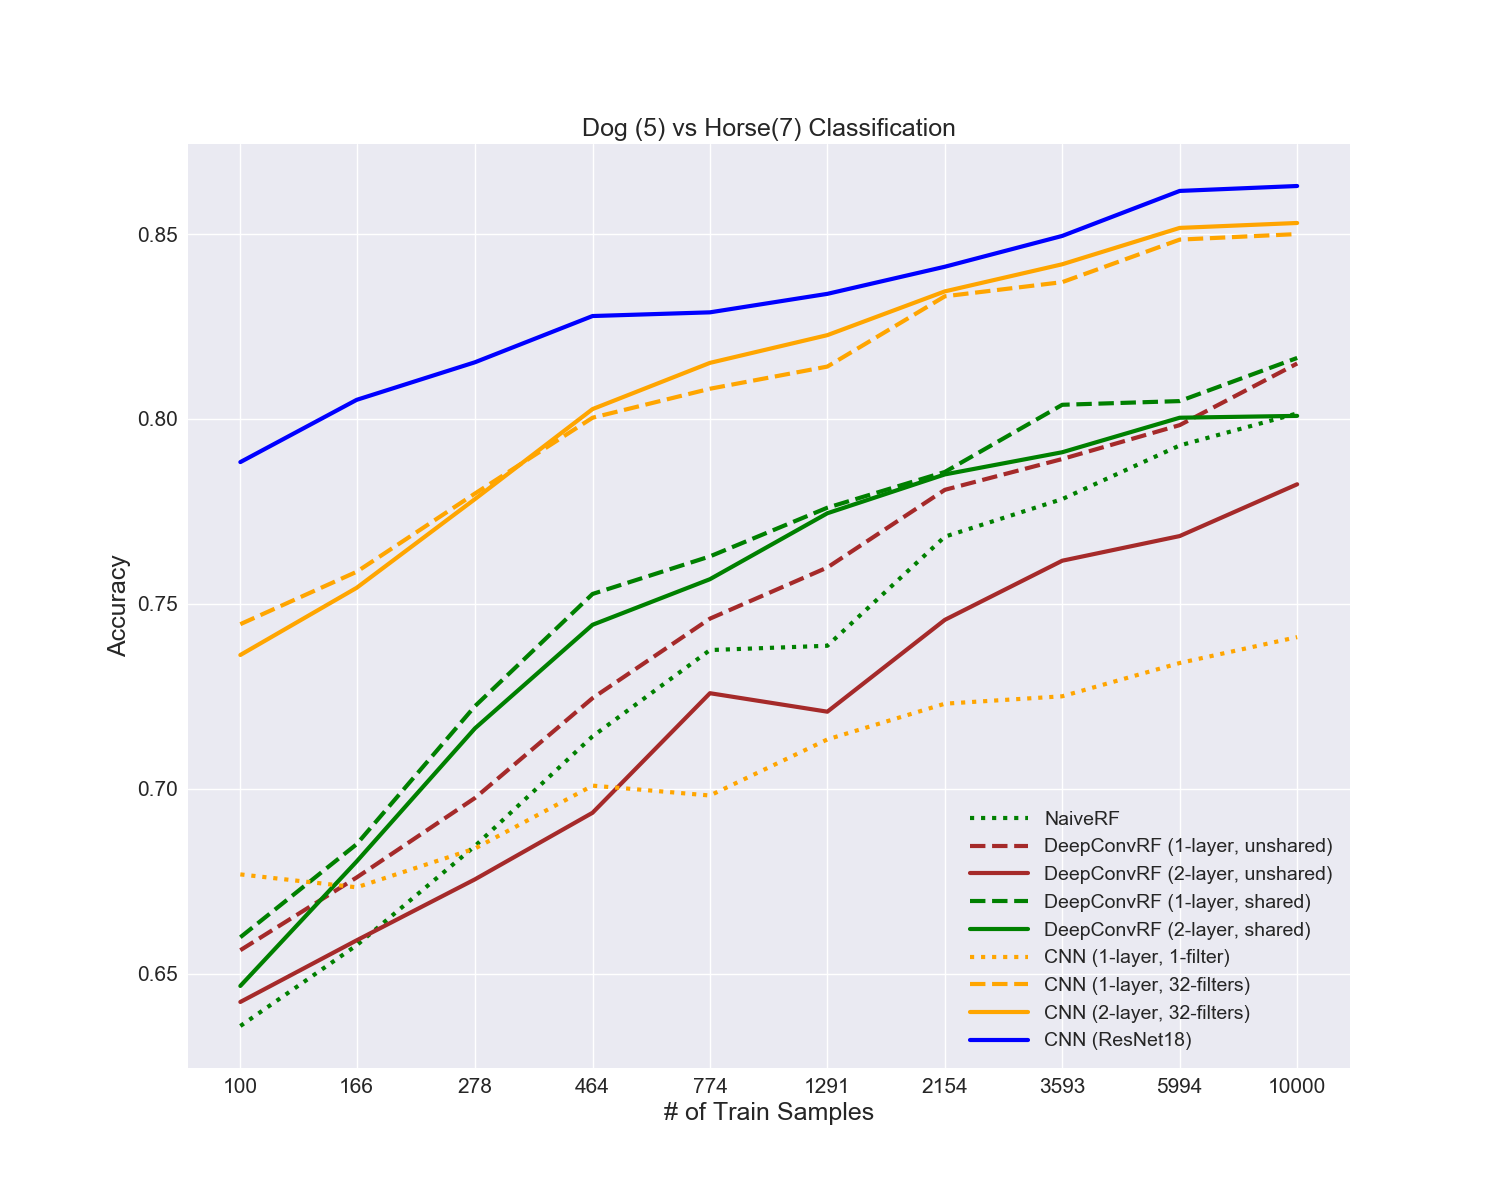
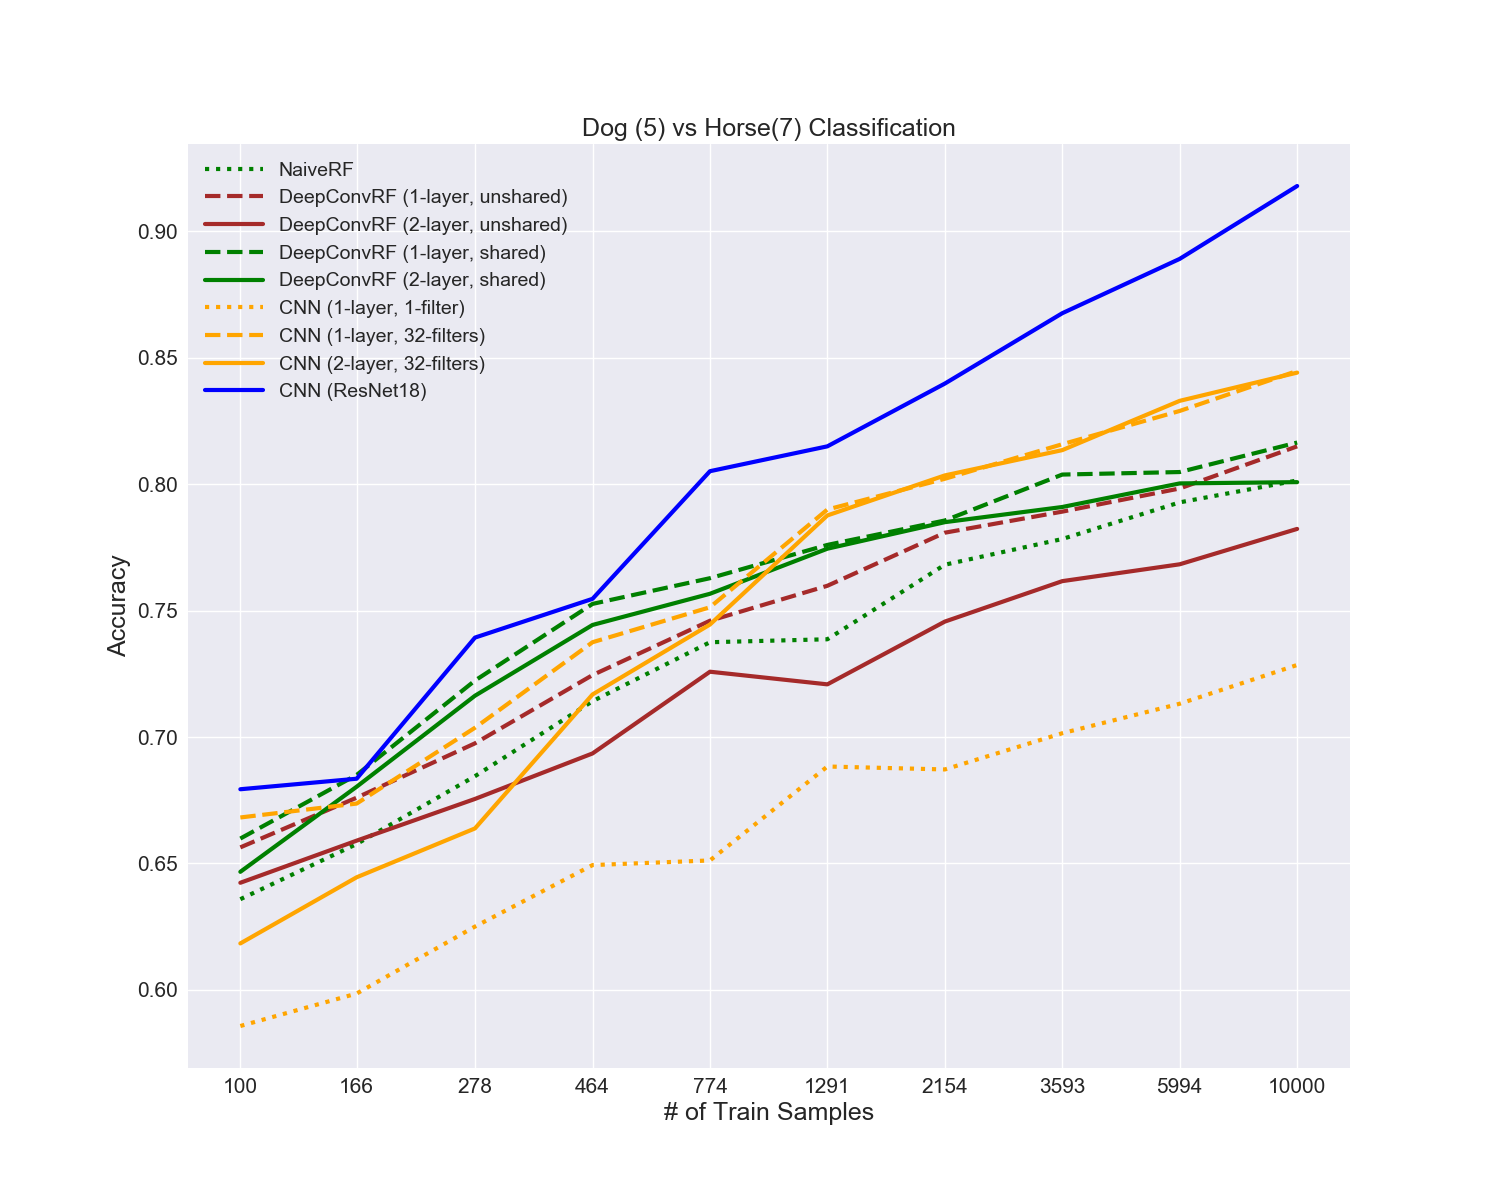
Update cifar10 5vs7

diff --git a/experiments/run.py b/experiments/run.py
@@ -26,15 +26,15 @@ warnings.filterwarnings("ignore")
 # Settings
 ##############################################################################################################
 
-# ####### CIFAR10 ########
-# DATASET_NAME = "CIFAR10"
-# # TITLE = "Automobile (1) vs Truck(9)"
-#
-# DATA_PATH = "./data"
-# RESULTS_PATH = "results/cifar10/100_percent_data/5vs7/"
-#
-# CHOOSEN_CLASSES = [5, 7]
-# MAX_TRAIN_FRACTION = 1.0
+####### CIFAR10 ########
+DATASET_NAME = "CIFAR10"
+TITLE = "Dog (5) vs Horse(7)"
+
+DATA_PATH = "./data"
+RESULTS_PATH = "results/cifar10/100_percent_data/5vs7/"
+
+CHOOSEN_CLASSES = [5, 7]
+MAX_TRAIN_FRACTION = 1.0
 
 # ####### SVHN ########
 # DATASET_NAME = "SVHN"
@@ -46,15 +46,15 @@ warnings.filterwarnings("ignore")
 # CHOOSEN_CLASSES = [0, 9]
 # MAX_TRAIN_FRACTION = 1.0
 
-####### FashionMNIST ########
-DATASET_NAME = "FashionMNIST"
-TITLE = "T-shirt/top (0) vs Dress (3)"
-
-DATA_PATH = "./data"
-RESULTS_PATH = "results/fashion_mnist/0vs3/"
-
-CHOOSEN_CLASSES = [0, 3]
-MAX_TRAIN_FRACTION = 1.0
+# ####### FashionMNIST ########
+# DATASET_NAME = "FashionMNIST"
+# TITLE = "T-shirt/top (0) vs Dress (3)"
+#
+# DATA_PATH = "./data"
+# RESULTS_PATH = "results/fashion_mnist/0vs3/"
+#
+# CHOOSEN_CLASSES = [0, 3]
+# MAX_TRAIN_FRACTION = 1.0
 
 
 N_TRIALS = 3
